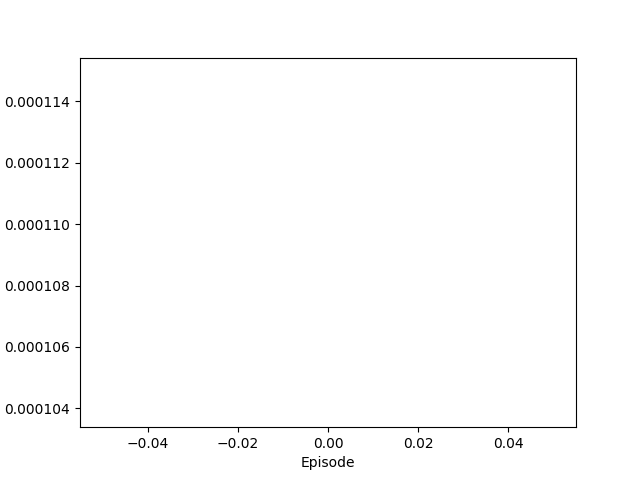
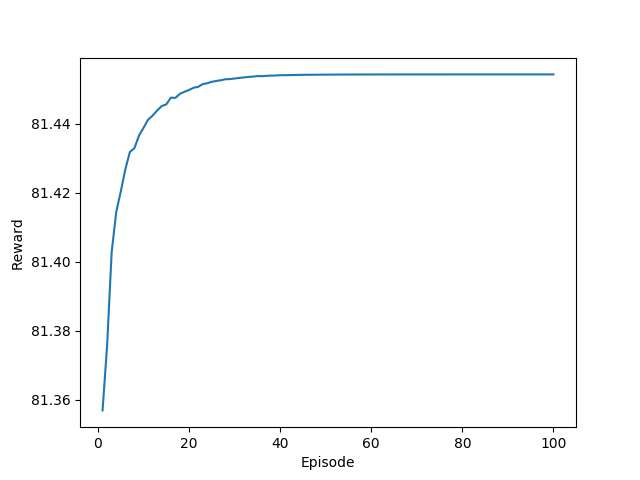
training plots

diff --git a/train.py b/train.py
@@ -23,8 +23,8 @@ class Trainer(object):
         self.batch_size = 1 # 256
         self.dimensions = 5 # 100
         self.hidden_size = 10 
-        self.num_episodes = 500
-        self.seq_length = 15000 # 100
+        self.num_episodes = 100
+        self.seq_length = 150 # 100
 
         # set of learning rates from which agent chooses from
         # self.step_size_map = np.array([10**i for i in range(-10, -1)])        
@@ -74,6 +74,9 @@ class Trainer(object):
 
 
     def fit(self):
+        """
+        TRAINING
+        """
 
         env = QuadraticEnvironment(batch_size=self.batch_size, dimensions=self.dimensions)
         grand_total_reward = 0.0 
@@ -81,11 +84,13 @@ class Trainer(object):
         grand_total_diff = 0.0 
         episode_arr = []
         reward_arr = []
+        acc_reward_arr = []
         final_reward_arr = []
         avgreward_arr = []
         loss_arr = []
         avgloss_arr = []
         diff_arr = []
+        diff_x_arr = []
         avgdiff_arr = []
 
         episode = 0
@@ -126,10 +131,10 @@ class Trainer(object):
                     total_reward += current_reward
 
                     # print(reward_arr)
-                    # if episode == self.num_episodes - 1 and t % 100 == 0:
-                    #     reward_arr.append(np.sum(total_reward))
-                    #     seqs.append(t)
-                    #     utils.curve_plot(reward_arr,seqs,'Iterations','Reward',0)
+                    if episode == self.num_episodes - 1 and t % 100 == 0:
+                        reward_arr.append(np.sum(total_reward))
+                        seqs.append(t)
+                        utils.curve_plot(reward_arr,seqs,'Iterations after final episode','Reward',0)
             except KeyboardInterrupt:
                 raise
             except:
@@ -143,6 +148,8 @@ class Trainer(object):
             diff_total = diff_total.sum() /(self.seq_length)
             total_reward = total_reward.sum()
             current_loss = current_loss.sum()
+            diff_arr_last = diff_arr_last.sum()
+            diff_x = diff_x.sum()
 
 
 
@@ -150,16 +157,19 @@ class Trainer(object):
             grand_total_loss += current_loss
             grand_total_diff += diff_total
 
+
+
+
             episode_arr.append(episode+1)
-            final_reward_arr.append(current_reward)
             diff_arr.append(diff_total)
             loss_arr.append(current_loss)
-            avgreward_arr.append(grand_total_reward/(episode+1))
-            avgloss_arr.append(grand_total_loss/(episode+1))
-            avgdiff_arr.append(grand_total_diff/(episode+1))
-            # utils.curve_plot(diff_arr,episode_arr,'Episode','Diff Value',1)
-            # utils.curve_plot(loss_arr,episode_arr,'Episode','Loss',2)
-            print("Diff Arr Last = ",diff_arr_last)
+            acc_reward_arr.append(total_reward)
+            diff_x_arr.append(diff_x)
+
+
+
+                
+            # print("Diff Arr Last = ",diff_arr_last)
             print('Training -- Episode [%d], Reward: %.4f, Last Reward : %.4f, Loss: %.4f, Diff Last: %.4f,Diff X Last: %.4f'
             % (episode_arr[-1], total_reward, reward_history[-1][-1],loss_arr[-1], diff_last, diff_x_last))
             
@@ -167,18 +177,25 @@ class Trainer(object):
             gc.collect()    
             episode += 1
 
-        utils.save_agent(agent=self.agent, dimension=self.dimensions, episode=episode, sequence_length=self.seq_length)
-    
+            if episode % 10 == 0:
+                utils.save_agent(agent=self.agent, dimension=self.dimensions, episode=episode, sequence_length=self.seq_length)
+        
 
-    def fit_without_rl(self, optim_type='adam'):
+        
+        utils.curve_plot(diff_arr,episode_arr,'Episode','Diff Value',1)
+        utils.curve_plot(loss_arr,episode_arr,'Episode','Loss',2)
+        utils.curve_plot(acc_reward_arr,episode_arr,'Episode','Reward',3)
+        utils.curve_plot(diff_x_arr,episode_arr,'Episode','Diff X',4)
+
+    def fit_without_rl(self, env, optim_type='adam'):
         batch_size = 1
         param = Variable(torch.zeros(batch_size, self.dimensions), requires_grad=True)
-        env = QuadraticEnvironment(batch_size=batch_size, dimensions=self.dimensions)
         if optim_type == 'sgd':
             optimizer = optim.SGD([{'params': param}], lr=0.1)# , momentum=0.9, weight_decay=0.9)
         elif optim_type == 'adam':
-            optimizer = optim.Adam([{'params': param}], lr=0.01)
+            optimizer = optim.Adam([{'params': param}], lr=0.1)
 
+        env.reset_state()
         iter_arr = []
         reward_arr = []
         diff_to_optim_val_arr = []
@@ -196,25 +213,74 @@ class Trainer(object):
             optimizer.step()
             env.current_iterate += param.data.numpy()
 
-            iter_arr.append(iter)
             reward = reward.sum()
-            reward_arr.append(reward)
-            diff_to_optim_val_arr.append(diff_to_optim_val)
-            diff_to_optim_x_squared_arr.append(diff_to_optim_x_squared)
             val = env.func_val.sum()
-            function_val_arr.append(val)
-            # utils.curve_plot(reward_arr,iter_arr,'iter','Reward',1)
-            # utils.curve_plot(diff_to_optim_val_arr,iter_arr,'iter','diff',2)
-            # utils.curve_plot(diff_to_optim_x_squared_arr,iter_arr,'iter','diff_x',3)
+
+            if iter % 1 == 0:
+                iter_arr.append(iter)
+                reward_arr.append(reward)
+                diff_to_optim_val_arr.append(diff_to_optim_val)
+                diff_to_optim_x_squared_arr.append(diff_to_optim_x_squared)
+                function_val_arr.append(val)
+        utils.curve_plot(reward_arr,iter_arr,'iter','Adam Reward',0)
+        utils.curve_plot(diff_to_optim_val_arr,iter_arr,'iter','Adam diff',1)
+        utils.curve_plot(diff_to_optim_x_squared_arr,iter_arr,'iter','Adam diff_x',2)
             # utils.curve_plot(function_val_arr,iter_arr,'iter','value',4)
 
-            print('Training -- iter [%d], Reward: %.4f, diff: %.4f,Diff_x: %.4f, Val: %.4f' % (iter+1, reward, diff_to_optim_val, diff_to_optim_x_squared, val))
+            # print('Training -- iter [%d], Reward: %.4f, diff: %.4f,Diff_x: %.4f, Val: %.4f' % (iter+1, reward, diff_to_optim_val, diff_to_optim_x_squared, val))
             
 
 
 
     def test(self, path):
+        """
+        path: model path to rl model
+        """
+        print('TESTING')
         utils.load_agent(agent=self.agent, path=path)
+        batch_size = 1
+        env = QuadraticEnvironment(batch_size=batch_size, dimensions=self.dimensions)
+        env.reset_state()
+
+
+        # test rl agent
+        current_state = env.get_state()
+        self.memory[0].data.zero_()
+        self.memory[1].data.zero_()
+
+        iter_arr = []
+        diff_arr = []
+        diff_x_arr = []
+        reward_arr = []
+
+        for iter in range(self.seq_length):
+            
+            self.state.data.copy_(torch.from_numpy(current_state))
+            next_action, self.memory = self.agent.fp(current_state=self.state, memory=self.memory)
+            next_action = next_action.data.numpy()
+            current_state, reward, diff_to_optim_val, diff_to_optim_x_squared,_= env(self.step_size_map[next_action])
+            
+            reward = np.sum(reward)
+            diff_to_optim_val = np.sum(diff_to_optim_val)
+            diff_to_optim_x_squared = np.sum(diff_to_optim_x_squared)
+
+            if iter % 1 == 0:
+                iter_arr.append(iter)
+                diff_arr.append(diff_to_optim_val)
+                diff_x_arr.append(diff_to_optim_x_squared)
+                reward_arr.append(reward)
+
+        utils.curve_plot(reward_arr, iter_arr, 'Iterations', 'Reward', 0)
+        utils.curve_plot(diff_arr, iter_arr, 'Iterations', 'Diff', 1)
+        utils.curve_plot(diff_x_arr, iter_arr, 'Iterations', 'Diff_x', 2)
+
+        # train without rl and test
+
+        self.fit_without_rl(env=env, optim_type='adam')
+
+
+
+
 
             
             
@@ -228,10 +294,9 @@ if __name__ == '__main__':
     t = Trainer()
     t.initialize()
     # t.fit()
-    model_path = 'logs/dim_5_seql_15000_episode_2.pth'
+    model_path = 'logs/dim_5_seql_15000_episode_100.pth'
     t.test(path=model_path)
 
-    # t.fit_without_rl()
 
 
 

diff --git a/utils.py b/utils.py
@@ -22,9 +22,9 @@ def save_agent(agent, sequence_length, episode, dimension):
     save_path = f'{SAVE_DIR}/dim_{dimension}_seql_{sequence_length}_episode_{episode}.pth' 
     torch.save(saved_dict, save_path)
 
-def load(agent, path):
+def load_agent(agent, path):
     load_dict = torch.load(path)
-    agent.policy_step.load_dict(load_dict["policy_step"])
-    agent.projection.load_dict(load_dict["projection"])
-    
+    agent.policy_step.load_state_dict(load_dict["policy_step"])
+    agent.projection.load_state_dict(load_dict["projection"])
+
 
